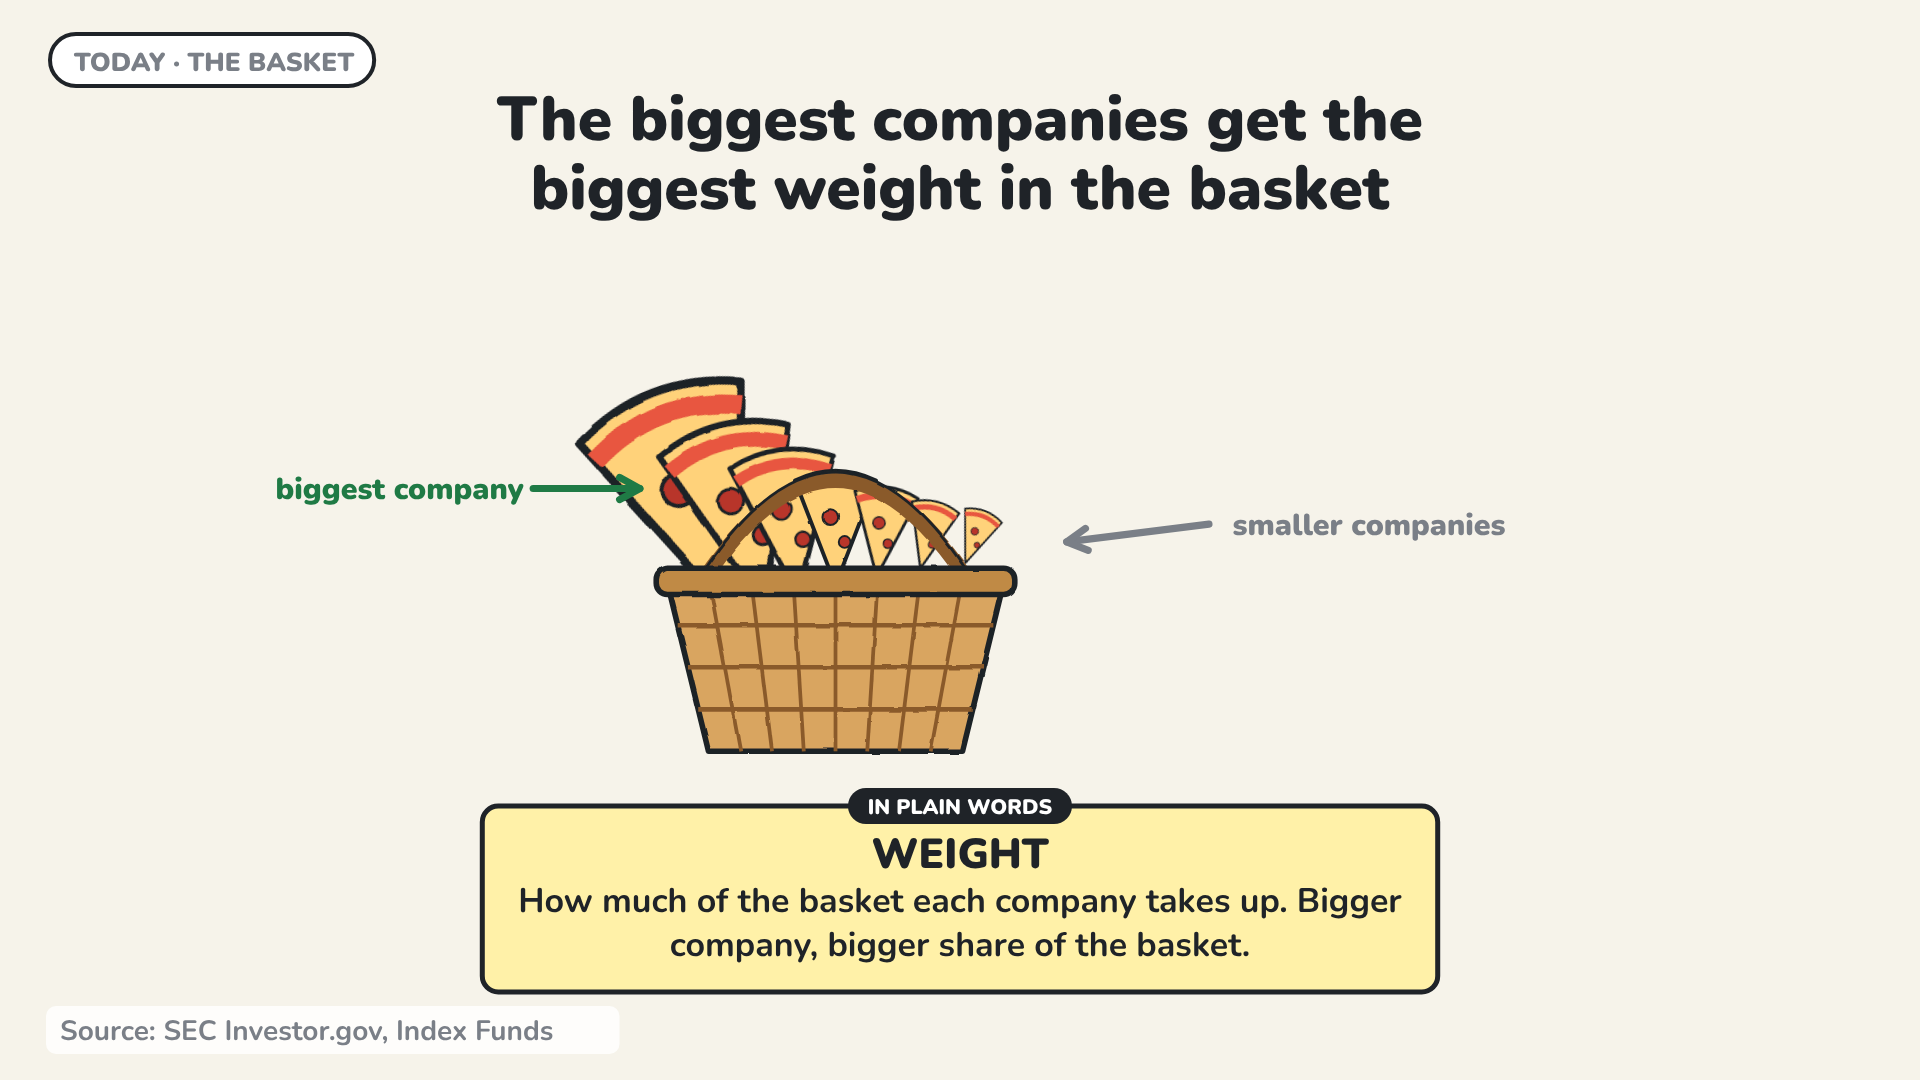
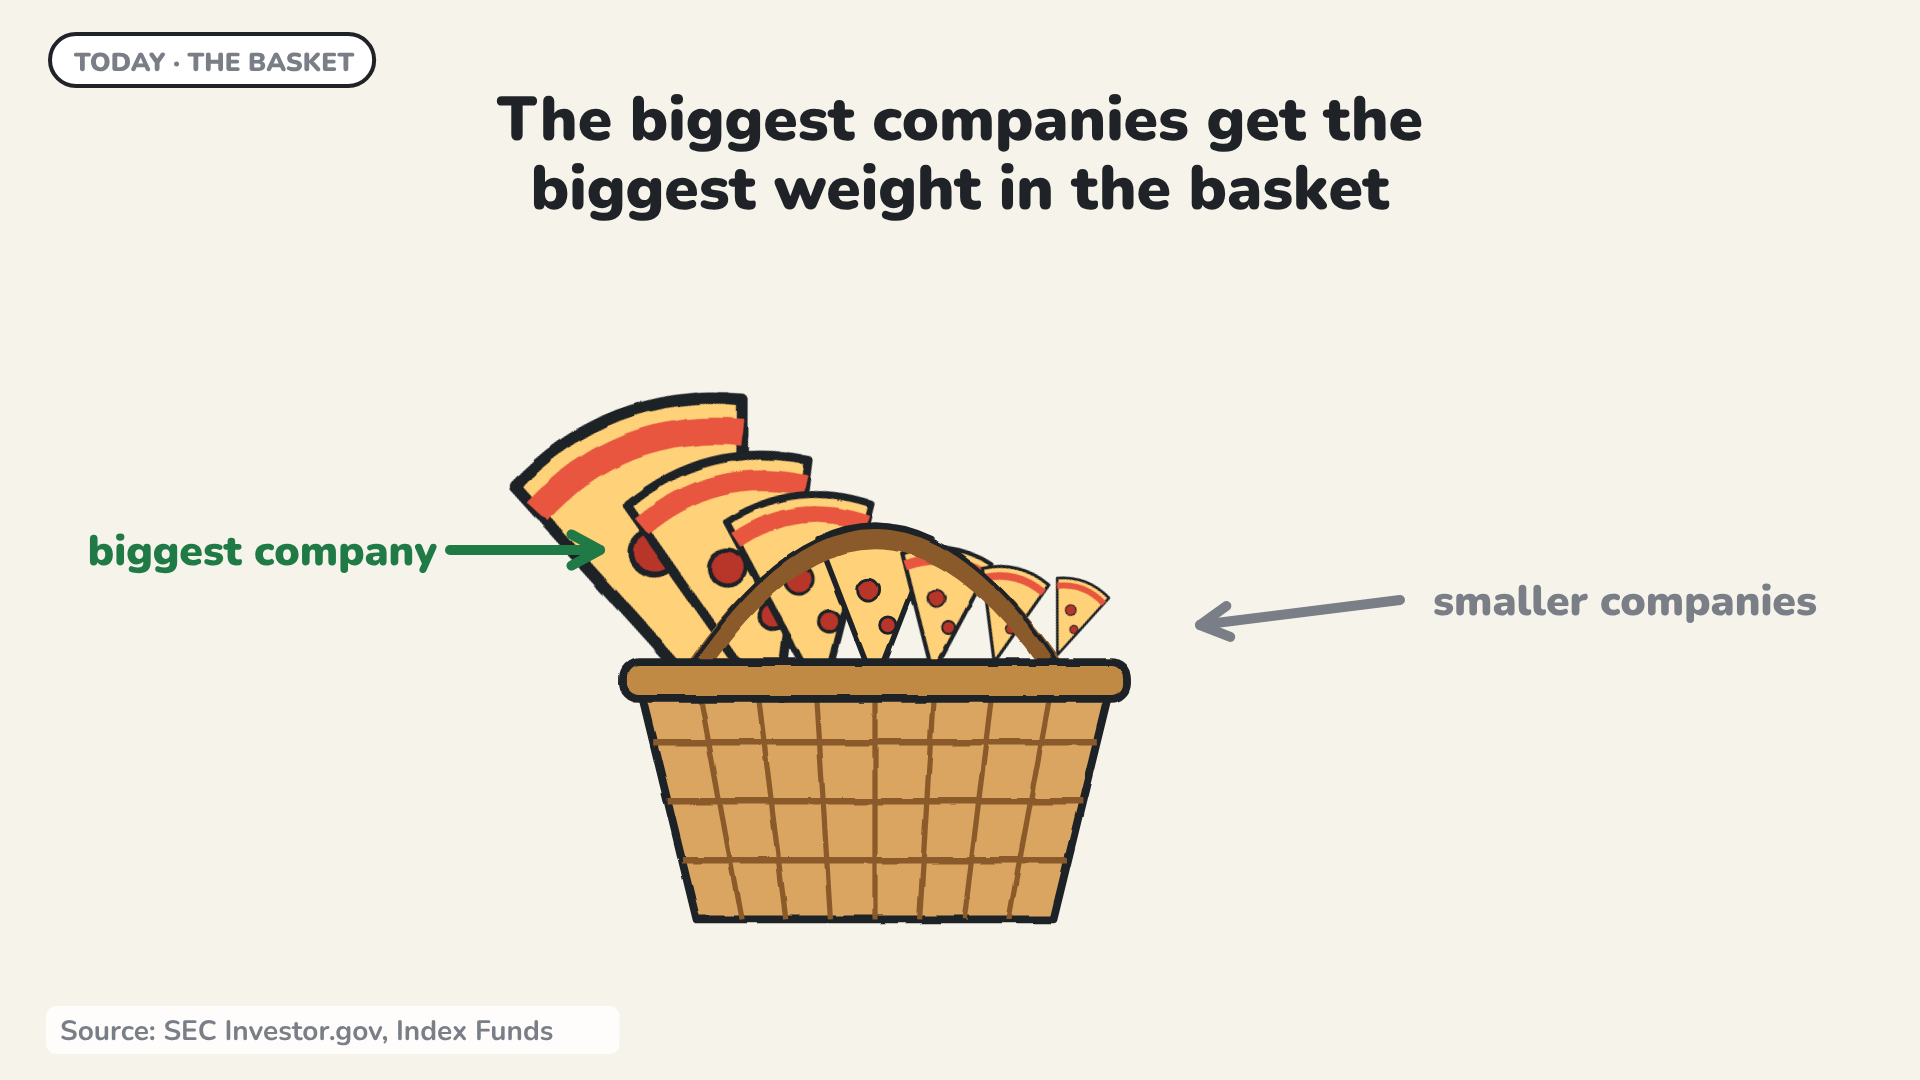
Remove WEIGHT card and the repeated candlestick card from stills
Claude-Session: https://claude.ai/code/session_01WhC43zTCZsoZD85bqhxNNz

Changed region(s): [[0.0312, 0.3361, 0.75, 0.9472], [0.625, 0.55, 0.9688, 0.6111], [0.625, 0.4583, 0.7812, 0.5194]]

diff --git a/video/01-follow-one-dollar/stills/scenes-d.js b/video/01-follow-one-dollar/stills/scenes-d.js
@@ -25,8 +25,7 @@ S.S129 = { h: "You buy a slice of the fund, and the fund owns the companies for 
   body: g(300, 620, 1, person({ shirt: BLUE, label: "You" })) + arrow(440, 560, 700, 560, { color: DGREEN, label: "buy a slice of the fund", ldy: -30, lsize: 30 }) + g(960, 680, 1, fullBasket()) + t(960, 850, "THE FUND", 40, { w: 900 }) +
     arrow(1200, 560, 1380, 560, { color: GREY, label: "owns", ldy: -24 }) + [0, 1, 2].map((i) => g(1480 + i * 130, 700, 0.42, tower(["A", "B", "C"][i], { w: 200, h: 300 + (i % 2) * 60, sign: [BLUE, ORANGE, PURPLE][i] }))).join("") + t(1610, 760, "the companies", 36, { w: 900 }) };
 S.S130 = { h: "The biggest companies get the biggest weight in the basket",
-  body: g(820, 700, 1.05, fullBasket([1.5, 1.15, 0.9, 0.7, 0.55, 0.42, 0.34])) + arrow(480, 520, 600, 520, { color: DGREEN }) + t(330, 532, "biggest company", 34, { w: 900, fill: DGREEN }) + arrow(1240, 560, 1080, 580, { color: GREY }) + t(1420, 572, "smaller companies", 34, { w: 900, fill: GREY }),
-  term: ["WEIGHT", "How much of the basket each company takes up. Bigger company, bigger share of the basket."] };
+  body: `<g transform="translate(-150 -100) scale(1.25)">` + g(820, 700, 1.05, fullBasket([1.5, 1.15, 0.9, 0.7, 0.55, 0.42, 0.34])) + arrow(480, 520, 600, 520, { color: DGREEN }) + t(330, 532, "biggest company", 34, { w: 900, fill: DGREEN }) + arrow(1240, 560, 1080, 580, { color: GREY }) + t(1420, 572, "smaller companies", 34, { w: 900, fill: GREY }) + `</g>` };
 S.S131 = { body: `<g transform="translate(900 640) scale(2.9 0.75)">${buck("shocked")}</g>` + bubble(1320, 340, "So thin…", { tail: "left" }) };
 S.S132 = { body: g(900, 520, 1.3, hamlet("proud")) + g(900, 720, 1.5, basket({ w: 420 })) + bubble(1340, 300, "I'd sit in this.", { tail: "left" }) };
 S.S133 = { h: "Over long periods, the S&P 500 has returned roughly 10% a year",
@@ -106,8 +105,7 @@ S.S160 = { h: "I started learning about money because I want to be financially f
   term: ["FINANCIALLY FREE", "Having enough money that you don't have to work just to pay the bills."] };
 S.S161 = { body: g(900, 900, 1.6, house({ roof: "new" })) + g(900, 500, 0.85, buck("shocked")) + bubble(1380, 300, "I'm in the roof.", { tail: "left" }) };
 S.S162 = { h: "Next time: how to read a candlestick chart without getting lost",
-  body: card(960, 580, 900, 520, t(0, -200, "NEXT VIDEO", 36, { w: 900, fill: GREY }) + g(-330, 200, 1.15, candles(12, { w: 580, h: 300, seed: 8 })), { sw: 9 }),
-  term: ["CANDLESTICK CHART", "A price chart made of bars. Each bar shows where the price started, ended, and its high and low."] };
+  body: card(960, 640, 900, 520, t(0, -200, "NEXT VIDEO", 36, { w: 900, fill: GREY }) + g(-330, 200, 1.15, candles(12, { w: 580, h: 300, seed: 8 })), { sw: 9 }) };
 const cbubble = (x, y, ls, fill = "#fff") => g(x, y, 1, W(`<path d="M -330 -110 H 330 Q 360 -110 360 -80 V 60 Q 360 90 330 90 H -180 L -250 150 L -240 90 H -330 Q -360 90 -360 60 V -80 Q -360 -110 -330 -110 Z" fill="${fill}" stroke="${INK}" stroke-width="7" stroke-linejoin="round"/>`) + ls.map((l, i) => t(0, -30 + i * 56 + (ls.length === 1 ? 30 : 0), l, 44, { w: 900 })).join(""));
 S.S163 = { h: "Tell me in the comments", body: cbubble(520, 520, ["Which stop", "surprised you most?"]) + cbubble(1400, 620, ["What was your", "first stock?"], YEL) };
 S.S164 = { h: "If this made the stock market make more sense, a like really helps",

diff --git a/video/01-follow-one-dollar/stills/terms.md b/video/01-follow-one-dollar/stills/terms.md
@@ -39,7 +39,6 @@ Every term a viewer might not know gets a yellow "IN PLAIN WORDS" card on the st
 | S122 | EARNINGS |  | A company's profit: the money left after it pays its costs. |
 | S128 | S&P 500 |  | A list of about 500 of the biggest U.S. companies. |
 | S128 | INDEX FUND |  | A fund that simply buys everything on a list. |
-| S130 | WEIGHT |  | How much of the basket each company takes up. Bigger company, bigger share of the basket. |
 | S133 | RETURN |  | How much an investment gained or lost over a period, shown as a percent. |
 | S134 | REINVESTED |  | Dividends used to buy more shares instead of being spent. |
 | S134 | INFLATION |  | Everyday prices rising over time, so a dollar buys less. |
@@ -50,4 +49,3 @@ Every term a viewer might not know gets a yellow "IN PLAIN WORDS" card on the st
 | S157 | NVIDIA |  | A company that designs computer chips, including chips used for AI. |
 | S159 | CANDLESTICK CHART |  | A price chart made of bars. Each bar shows where the price started, ended, and its high and low. |
 | S160 | FINANCIALLY FREE |  | Having enough money that you don't have to work just to pay the bills. |
-| S162 | CANDLESTICK CHART |  | A price chart made of bars. Each bar shows where the price started, ended, and its high and low. |
